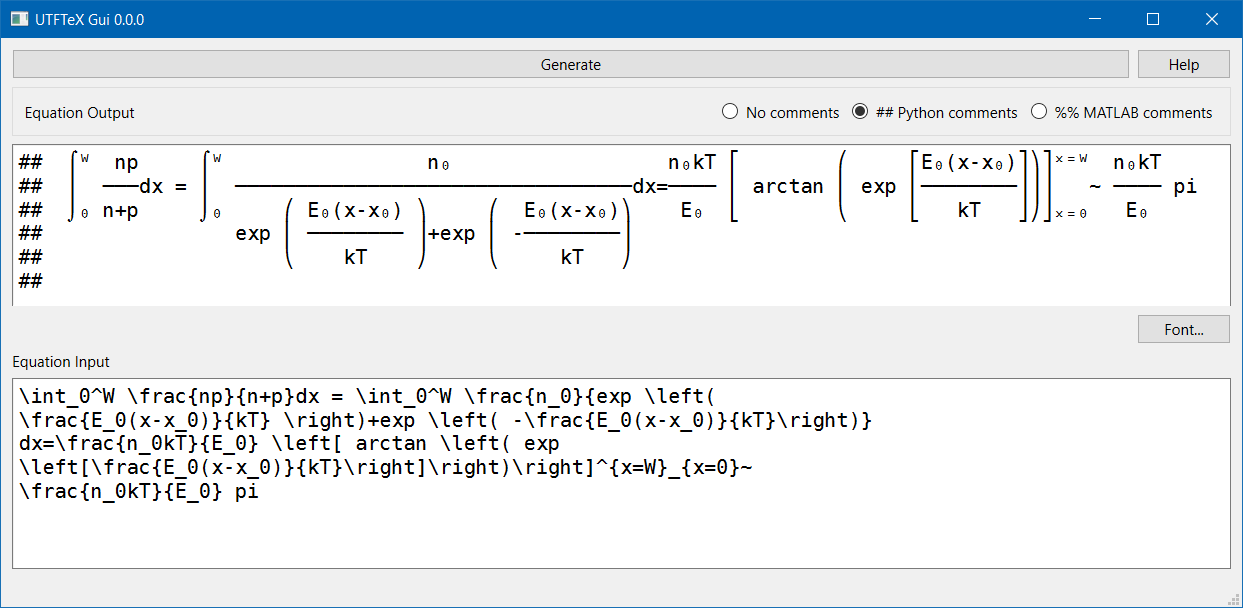
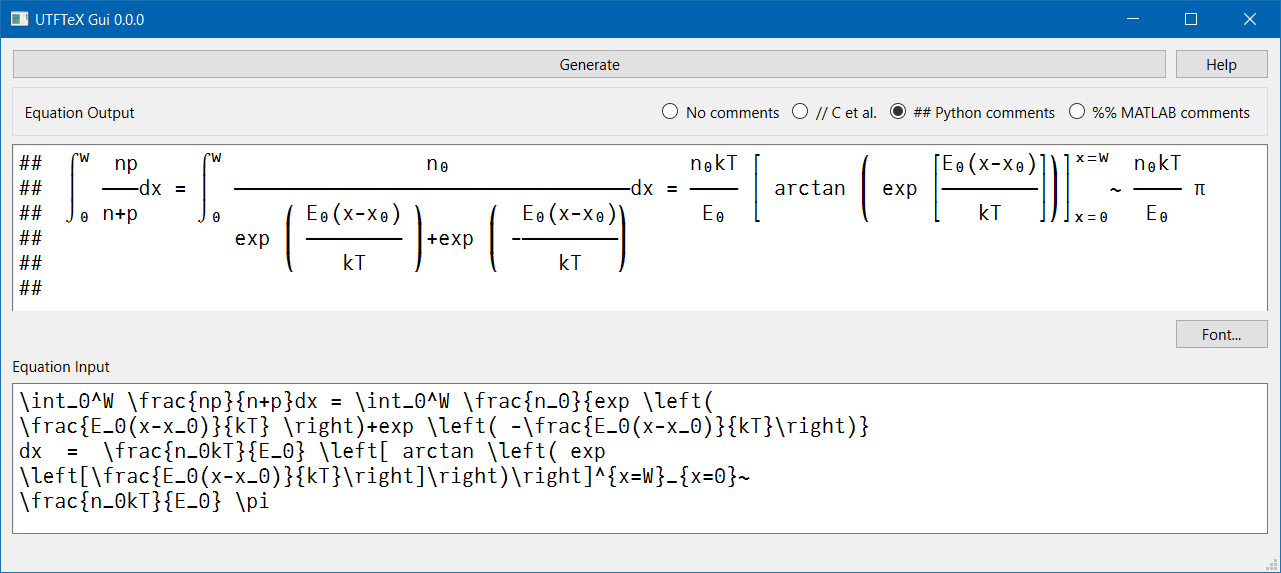
added // comments as option. updated screenshot

diff --git a/utftex_gui.py b/utftex_gui.py
@@ -19,8 +19,9 @@ from enum import Enum
 
 class enumComment(Enum):
     NoComment   = 1
-    Python = 2
-    Matlab = 3
+    C = 2
+    Python = 3
+    Matlab = 4
 
 
 class UTFTexGui(QMainWindow, loadUiType('utftexgui.ui')[0]):
@@ -30,6 +31,7 @@ class UTFTexGui(QMainWindow, loadUiType('utftexgui.ui')[0]):
         self.setupUi(self)
 
         self.bgrpComment.setId(self.rdbNoComment, enumComment.NoComment.value)
+        self.bgrpComment.setId(self.rdbC, enumComment.C.value)
         self.bgrpComment.setId(self.rdbPython, enumComment.Python.value)
         self.bgrpComment.setId(self.rdbMatlab, enumComment.Matlab.value)
                 
@@ -73,6 +75,9 @@ class UTFTexGui(QMainWindow, loadUiType('utftexgui.ui')[0]):
   
     @Slot(int)
     def on_bgrpComment_idClicked(self, b_id):
+        # this event fires whenever a button in the QButtonGroup bgrpComment 
+        # is clicked. id's are assigned to radio buttons in __init__
+        
         # print(f'clicked {b_id}')
         
         output = self.output
@@ -80,7 +85,7 @@ class UTFTexGui(QMainWindow, loadUiType('utftexgui.ui')[0]):
         
         # look at first character in output. if it has a comment character
         # that means we must strip comment characters from output before starting
-        if self.output[0] in ['#', '%']:
+        if self.output[0] in ['/', '#', '%']:
             for i, line in enumerate(output):
                 output[i] = line[4:]
         
@@ -88,8 +93,10 @@ class UTFTexGui(QMainWindow, loadUiType('utftexgui.ui')[0]):
         if b_id == enumComment.NoComment.value:
             pass
         else:
-            # Python or Matlab
-            if b_id == enumComment.Python.value:
+            # C or Python or Matlab
+            if b_id == enumComment.C.value:
+                prefix = '//  '
+            elif b_id == enumComment.Python.value:
                 prefix = '##  '
             elif b_id == enumComment.Matlab.value:
                 prefix = '%%  '
